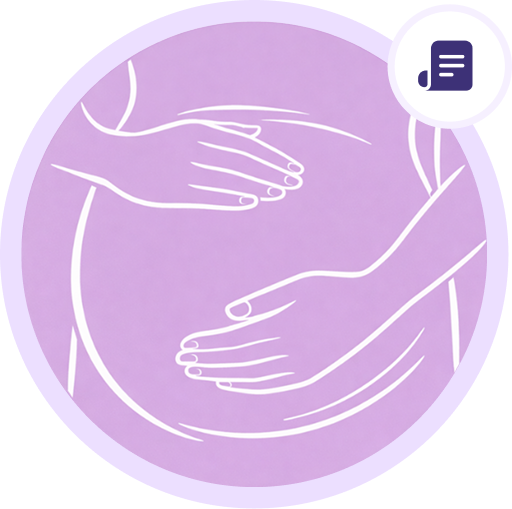
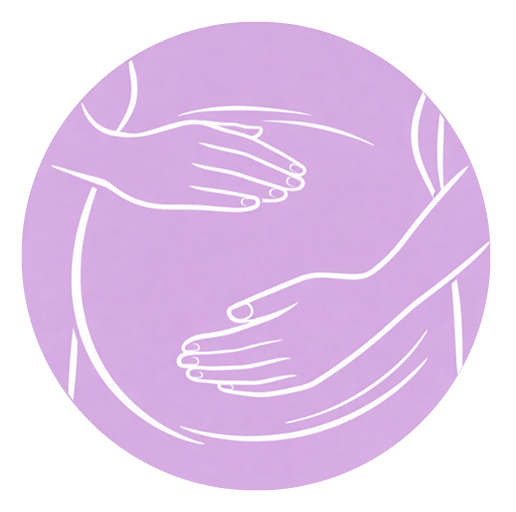
PQ page update

Changed region(s): [[0.0, 0.0, 1.0, 1.0]]

diff --git a/src/assets/IconPaper.tsx b/src/assets/IconPaper.tsx
@@ -1,0 +1,21 @@
+export default function IconPaper() {
+    return (
+        <svg width="70" height="70" viewBox="0 0 70 70" fill="none" xmlns="http://www.w3.org/2000/svg" xmlns="http://www.w3.org/1999/xlink">
+            <circle cx="35" cy="35" r="33" fill="white" stroke="#F6F0FF" stroke-width="4" />
+            <mask id="mask0_1985_443"
+                style={{ maskType: "alpha" }}
+                maskUnits="userSpaceOnUse" x="15" y="17" width="35" height="35">
+                <rect x="15" y="17" width="35" height="35" fill="url(#pattern0_1985_443)" />
+            </mask>
+            <g mask="url(#mask0_1985_443)">
+                <rect x="16.2988" y="18.6406" width="33.7012" height="31.9922" fill="#3D3177" />
+            </g>
+            <defs>
+                <pattern id="pattern0_1985_443" patternContentUnits="objectBoundingBox" width="1" height="1">
+                    <use href="#image0_1985_443" transform="scale(0.00195312)" />
+                </pattern>
[1 lines of base64/hex data omitted]
+            </defs>
+        </svg>
+    );
+}

diff --git a/src/app/pregnancy-overview/_components/OverviewCategories.tsx b/src/app/pregnancy-overview/_components/OverviewCategories.tsx
@@ -1,6 +1,7 @@
 "use client";
 import IconBaby from "@/assets/IconBaby";
 import IconMother from "@/assets/IconMother";
+import IconPaper from "@/assets/IconPaper";
 import IconPartner from "@/assets/IconPartner";
 import { CircleIcon } from "@/components/ui/CircleIcon";
 import { useCurrentUser } from "@/hooks/useCurrentUser";
@@ -11,7 +12,7 @@ const overviewCategories = [
   {
     id: 2,
     // icon: <IconBaby className="w-16 h-12 xl:w-26 xl:h-15" />,
-    icon: <IconMother className="md:size-48 lg:size-68 xl:size-68" />,
+    icon: <IconMother className="md:size-48 lg:size-78 xl:size-92 transform scale-[0.8]" />,
     // icon: <IconMother className="size-[108px] md:size-[180px] lg:size-[286px]" />,
     name: "Mother",
     // href: `/search-article?page=1&tag=mother`,
@@ -27,7 +28,7 @@ const overviewCategories = [
   {
     id: 3,
     // icon: <IconBaby className="w-16 h-12 xl:w-26 xl:h-15" />,
-    icon: <IconMother className="md:size-48 lg:size-68 xl:size-68" />,
+    icon: <IconMother className="md:size-48 lg:size-78 xl:size-92  transform scale-[0.8]" />,
     // icon: <IconPartner className="size-[108px] md:size-[180px] lg:size-[286px]" />,
     name: "Partner",
     // href: `/search-article?page=1&tag=partner`,
@@ -52,7 +53,12 @@ function OverviewCategories() {
               href={`/search-article?page=1&tag=${category.name}&week=${currentWeek}`}
             >
               <div className="flex flex-col cursor-pointer">
-                {icon}
+                <div className="relative">
+                  <div className="absolute top-1/2 left-1/2 -translate-x-1/2 -translate-y-1/2">
+                    <IconPaper />
+                  </div>
+                  {icon}
+                </div>
                 <p className="mt-4 text-center text-lg! md:text-3xl! text-primary-dark font-semibold">
                   {name}
                 </p>
